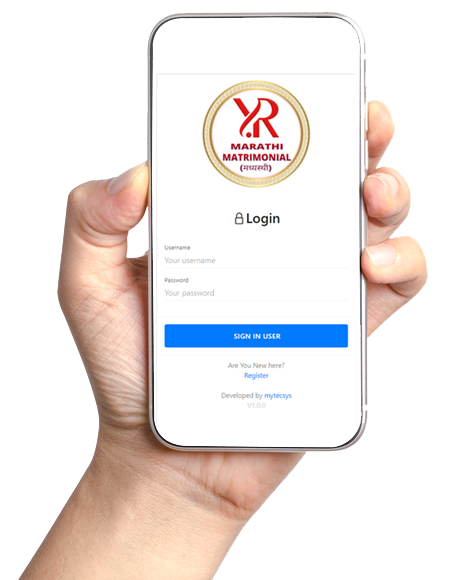
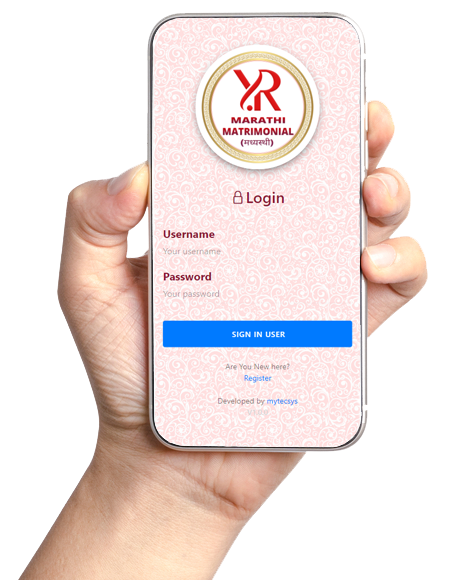
custumised,
mobile mockup changed, svg colours, 1st slider created and added, faq, background colour

Changed region(s): [[0.3333, 0.031, 0.7879, 0.7759]]

diff --git a/assets/css/style.css b/assets/css/style.css
@@ -547,6 +547,9 @@ section {
 .portfolio .portfolio-item {
   margin-bottom: 30px;
 }
+.portfolio-bg {
+  background-color: #fef8f5;
+}
 .portfolio #portfolio-flters {
   padding: 0;
   margin: 0 0 35px 0;
@@ -774,6 +777,9 @@ section {
 .team {
   background: #fff;
   padding: 60px 0;
+}
+.team-bg {
+  background-color: #fef8f5;
 }
 .team .member {
   text-align: center;
@@ -1034,6 +1040,9 @@ section {
   font-size: 14px;
   background: #fef8f5;
 }
+.footer-bg {
+  background-color: #fef8f5;
+}
 #footer .footer-newsletter {
   padding: 50px 0;
   background: #fef8f5;
@@ -1082,7 +1091,7 @@ section {
 }
 #footer .footer-top {
   padding: 60px 0 30px 0;
-  background: #fff;
+  
 }
 #footer .footer-top .footer-contact {
   margin-bottom: 30px;

diff --git a/index.php b/index.php
@@ -7,13 +7,13 @@ include"head.php";
     <div id="carouselExampleControls" class="carousel slide" data-bs-ride="carousel" style="width: 100%;">
     <div class="carousel-inner">
     <div class="carousel-item active">
-      <img src="yr_slider_1(f).jpg" class="d-block w-100" alt="...">
+      <img src="yr_slider_4(f).jpg" class="d-block w-100 img-fluid " alt="...">
     </div>
     <div class="carousel-item">
-      <img src="yr_slider_2(f).jpg" class="d-block w-100" alt="...">
+      <img src="yr_slider_2(f).jpg" class="d-block w-100 img-fluid" alt="...">
     </div>
     <div class="carousel-item">
-      <img src="yr_slider_3(f).jpg" class="d-block w-100" alt="...">
+      <img src="yr_slider_3(f).jpg" class="d-block w-100 img-fluid" alt="...">
     </div>
     </div>
   <button class="carousel-control-prev" type="button" data-bs-target="#carouselExampleControls" data-bs-slide="prev">
@@ -30,7 +30,7 @@ include"head.php";
   <main id="main">
     <!-- ======= Services Section ======= -->
     <section id="services" class="services section-bg">
-      <div class="container" data-aos="fade-up">
+      <div class="container" data-aos="">
 
         <div class="section-title">
           <!-- <h2>Services</h2> -->
@@ -83,7 +83,7 @@ include"head.php";
             <img src="mobile_mockup.png" class="img-fluid" alt="" data-aos="zoom-in">
           </div>
           <div class="col-lg-8 ">
-            <center><h3 data-aos="fade-up">Download App</h3></center>
+            <center><h3 data-aos="">Download App</h3></center>
             <div class="row yr_app">
               <div class="col-md-4" data-aos="fade-up" data-aos-delay="100" style="width:100">
                 <center><img class="app_icon" src="images/person-square.svg" style="width:115px;margin-bottom:15px; color:#eb5d1e;"></center>
@@ -101,10 +101,6 @@ include"head.php";
                 <!-- <p>Excepteur sint occaecat cupidatat non proident, sunt in culpa qui officia deserunt</p> -->
               </div>
             </div>
-
-            <!-- <p data-aos="fade-up" data-aos-delay="100">
-              Lorem ipsum dolor sit amet, consectetur adipiscing elit, sed do eiusmod tempor incididunt ut labore et dolore magna aliqua. Duis aute irure dolor in reprehenderit
-            </p> -->
             <div class="row yr_app">
               <div class="col-md-4" data-aos="fade-up" data-aos-delay="100" style="width:100">
                 <center><img class="app_icon" src="images/search.svg" style="width:115px;margin-bottom:15px; color:#eb5d1e;"></center>
@@ -122,6 +118,23 @@ include"head.php";
                 <!-- <p>Excepteur sint occaecat cupidatat non proident, sunt in culpa qui officia deserunt</p> -->
               </div>
             </div>
+            <div class="row yr_app">
+              <div class="col-md-4" data-aos="fade-up" data-aos-delay="200" style="width:100">
+               <!--  <center><img class="app_icon" src="images/bell-fill.svg" style="width:115px;margin-bottom:15px; color:#eb5d1e;"></center>
+                <center><h4 class="app_icon_tittle">Notifications</h4></center> -->
+                <!-- <p>Excepteur sint occaecat cupidatat non proident, sunt in culpa qui officia deserunt</p> -->
+              </div>
+              <div class="col-md-4" data-aos="fade-up" data-aos-delay="200" style="width:100">
+                <center><img class="app_icon" src="images/play_store.png" style="width:200px;margin-bottom:15px; color:#eb5d1e;"></center>
+                <!-- <center><h4 class="app_icon_tittle">Notifications</h4></center> -->
+                <!-- <p>Excepteur sint occaecat cupidatat non proident, sunt in culpa qui officia deserunt</p> -->
+              </div>
+              <div class="col-md-4" data-aos="fade-up" data-aos-delay="200" style="width:100">
+                <!-- <center><img class="app_icon" src="images/bell-fill.svg" style="width:115px;margin-bottom:15px; color:#eb5d1e;"></center>
+                <center><h4 class="app_icon_tittle">Notifications</h4></center> -->
+                <!-- <p>Excepteur sint occaecat cupidatat non proident, sunt in culpa qui officia deserunt</p> -->
+              </div>
+            </div>
           </div>
         </div>
 
@@ -131,8 +144,8 @@ include"head.php";
     
 
     <!-- ======= Portfolio Section ======= -->
-    <section id="portfolio" class="portfolio">
-      <div class="container" data-aos="fade-up">
+    <section id="portfolio" class="portfolio portfolio-bg">
+      <div class="container" data-aos="">
 
         <div class="section-title">
           <h2>Portfolio</h2>
@@ -284,7 +297,8 @@ include"head.php";
     </section><!-- End Portfolio Section -->
 
     <!-- ======= F.A.Q Section ======= -->
-    <section id="about" class="about">
+    
+    <section id="faq" class="faq ">
       <div class="container" data-aos="fade-up">
 
         <div class="section-title">
@@ -352,82 +366,14 @@ include"head.php";
 
       </div>
     </section>
-    <!-- <section id="faq" class="faq section-bg">
-      <div class="container" data-aos="fade-up">
-
-        <div class="section-title">
-          <h2>F.A.Q</h2>
-          <p>Frequently Asked Questions</p>
-        </div>
-
-        <ul class="faq-list" data-aos="fade-up" data-aos-delay="100">
-
-          <li>
-            <div data-bs-toggle="collapse" class="collapsed question" href="#faq1">Non consectetur a erat nam at lectus urna duis? <i class="bi bi-chevron-down icon-show"></i><i class="bi bi-chevron-up icon-close"></i></div>
-            <div id="faq1" class="collapse" data-bs-parent=".faq-list">
-              <p>
-                Feugiat pretium nibh ipsum consequat. Tempus iaculis urna id volutpat lacus laoreet non curabitur gravida. Venenatis lectus magna fringilla urna porttitor rhoncus dolor purus non.
-              </p>
-            </div>
-          </li>
-
-          <li>
-            <div data-bs-toggle="collapse" href="#faq2" class="collapsed question">Feugiat scelerisque varius morbi enim nunc faucibus a pellentesque? <i class="bi bi-chevron-down icon-show"></i><i class="bi bi-chevron-up icon-close"></i></div>
-            <div id="faq2" class="collapse" data-bs-parent=".faq-list">
-              <p>
-                Dolor sit amet consectetur adipiscing elit pellentesque habitant morbi. Id interdum velit laoreet id donec ultrices. Fringilla phasellus faucibus scelerisque eleifend donec pretium. Est pellentesque elit ullamcorper dignissim. Mauris ultrices eros in cursus turpis massa tincidunt dui.
-              </p>
-            </div>
-          </li>
-
-          <li>
-            <div data-bs-toggle="collapse" href="#faq3" class="collapsed question">Dolor sit amet consectetur adipiscing elit pellentesque habitant morbi? <i class="bi bi-chevron-down icon-show"></i><i class="bi bi-chevron-up icon-close"></i></div>
-            <div id="faq3" class="collapse" data-bs-parent=".faq-list">
-              <p>
-                Eleifend mi in nulla posuere sollicitudin aliquam ultrices sagittis orci. Faucibus pulvinar elementum integer enim. Sem nulla pharetra diam sit amet nisl suscipit. Rutrum tellus pellentesque eu tincidunt. Lectus urna duis convallis convallis tellus. Urna molestie at elementum eu facilisis sed odio morbi quis
-              </p>
-            </div>
-          </li>
-
-          <li>
-            <div data-bs-toggle="collapse" href="#faq4" class="collapsed question">Ac odio tempor orci dapibus. Aliquam eleifend mi in nulla? <i class="bi bi-chevron-down icon-show"></i><i class="bi bi-chevron-up icon-close"></i></div>
-            <div id="faq4" class="collapse" data-bs-parent=".faq-list">
-              <p>
-                Dolor sit amet consectetur adipiscing elit pellentesque habitant morbi. Id interdum velit laoreet id donec ultrices. Fringilla phasellus faucibus scelerisque eleifend donec pretium. Est pellentesque elit ullamcorper dignissim. Mauris ultrices eros in cursus turpis massa tincidunt dui.
-              </p>
-            </div>
-          </li>
-
-          <li>
-            <div data-bs-toggle="collapse" href="#faq5" class="collapsed question">Tempus quam pellentesque nec nam aliquam sem et tortor consequat? <i class="bi bi-chevron-down icon-show"></i><i class="bi bi-chevron-up icon-close"></i></div>
-            <div id="faq5" class="collapse" data-bs-parent=".faq-list">
-              <p>
-                Molestie a iaculis at erat pellentesque adipiscing commodo. Dignissim suspendisse in est ante in. Nunc vel risus commodo viverra maecenas accumsan. Sit amet nisl suscipit adipiscing bibendum est. Purus gravida quis blandit turpis cursus in
-              </p>
-            </div>
-          </li>
-
-          <li>
-            <div data-bs-toggle="collapse" href="#faq6" class="collapsed question">Tortor vitae purus faucibus ornare. Varius vel pharetra vel turpis nunc eget lorem dolor? <i class="bi bi-chevron-down icon-show"></i><i class="bi bi-chevron-up icon-close"></i></div>
-            <div id="faq6" class="collapse" data-bs-parent=".faq-list">
-              <p>
-                Laoreet sit amet cursus sit amet dictum sit amet justo. Mauris vitae ultricies leo integer malesuada nunc vel. Tincidunt eget nullam non nisi est sit amet. Turpis nunc eget lorem dolor sed. Ut venenatis tellus in metus vulputate eu scelerisque. Pellentesque diam volutpat commodo sed egestas egestas fringilla phasellus faucibus. Nibh tellus molestie nunc non blandit massa enim nec.
-              </p>
-            </div>
-          </li>
-
-        </ul>
-
-      </div>
-    </section> -->
 
     <!-- End F.A.Q Section -->
 
     <!-- ======= Team Section ======= -->
-    <section id="team" class="team">
+    <section id="team" class="team team-bg">
       <div class="container">
 
-        <div class="section-title" data-aos="fade-up">
+        <div class="section-title" data-aos="">
           <h2>Team</h2>
           <p>Our team is always here to help</p>
         </div>
@@ -511,35 +457,11 @@ include"head.php";
       </div>
     </section><!-- End Team Section -->
 
-    <!-- ======= Clients Section ======= -->
-    <section id="clients" class="clients section-bg">
-      <div class="container" data-aos="fade-up">
-
-        <div class="section-title">
-          <h2>Clients</h2>
-          <p>They trusted us</p>
-        </div>
-
-        <div class="clients-slider swiper" data-aos="fade-up" data-aos-delay="100">
-          <div class="swiper-wrapper align-items-center">
-            <div class="swiper-slide"><img src="assets/img/clients/client-1.png" class="img-fluid" alt=""></div>
-            <div class="swiper-slide"><img src="assets/img/clients/client-2.png" class="img-fluid" alt=""></div>
-            <div class="swiper-slide"><img src="assets/img/clients/client-3.png" class="img-fluid" alt=""></div>
-            <div class="swiper-slide"><img src="assets/img/clients/client-4.png" class="img-fluid" alt=""></div>
-            <div class="swiper-slide"><img src="assets/img/clients/client-5.png" class="img-fluid" alt=""></div>
-            <div class="swiper-slide"><img src="assets/img/clients/client-6.png" class="img-fluid" alt=""></div>
-            <div class="swiper-slide"><img src="assets/img/clients/client-7.png" class="img-fluid" alt=""></div>
-            <div class="swiper-slide"><img src="assets/img/clients/client-8.png" class="img-fluid" alt=""></div>
-          </div>
-          <div class="swiper-pagination"></div>
-        </div>
-
-      </div>
-    </section><!-- End Clients Section -->
+    
 
     <!-- ======= Contact Us Section ======= -->
     <section id="contact" class="contact">
-      <div class="container" data-aos="fade-up">
+      <div class="container" data-aos="">
 
         <div class="section-title">
           <h2>Contact Us</h2>

diff --git a/foot.php b/foot.php
@@ -1,19 +1,7 @@
  <!-- ======= Footer ======= -->
-  <footer id="footer">
+  <footer id="footer" class="footer-bg">
 
-    <div class="footer-newsletter">
-      <div class="container">
-        <div class="row justify-content-center">
-          <div class="col-lg-6">
-            <h4>Join Our Newsletter</h4>
-            <p>Tamen quem nulla quae legam multos aute sint culpa legam noster magna</p>
-            <form action="" method="post">
-              <input type="email" name="email"><input type="submit" value="Subscribe">
-            </form>
-          </div>
-        </div>
-      </div>
-    </div>
+    
 
     <div class="footer-top">
       <div class="container">

diff --git a/head.php b/head.php
@@ -85,7 +85,7 @@
   }
   .yr_app{
     padding: 30px;
-    margin: 30px;
+    
   }
   .app_icon .app_icon_tittle{
     margin: 20px;
